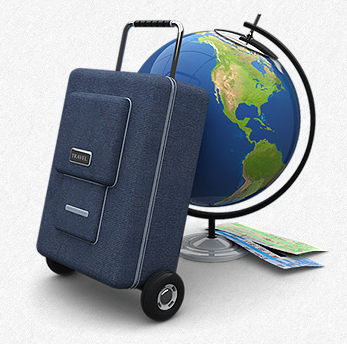
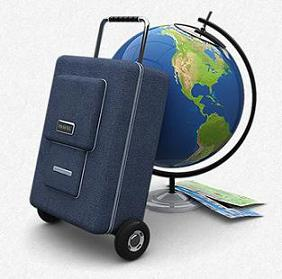
Cambios pequeños en footer y navbar.

diff --git a/web/css/style.css b/web/css/style.css
@@ -252,7 +252,7 @@ header {
 .img {
     position: absolute;
     right: 0px;
-    top: 203px;
+    top: 213px;
 }
 .text {
     padding: 7px 0 0 36px;
